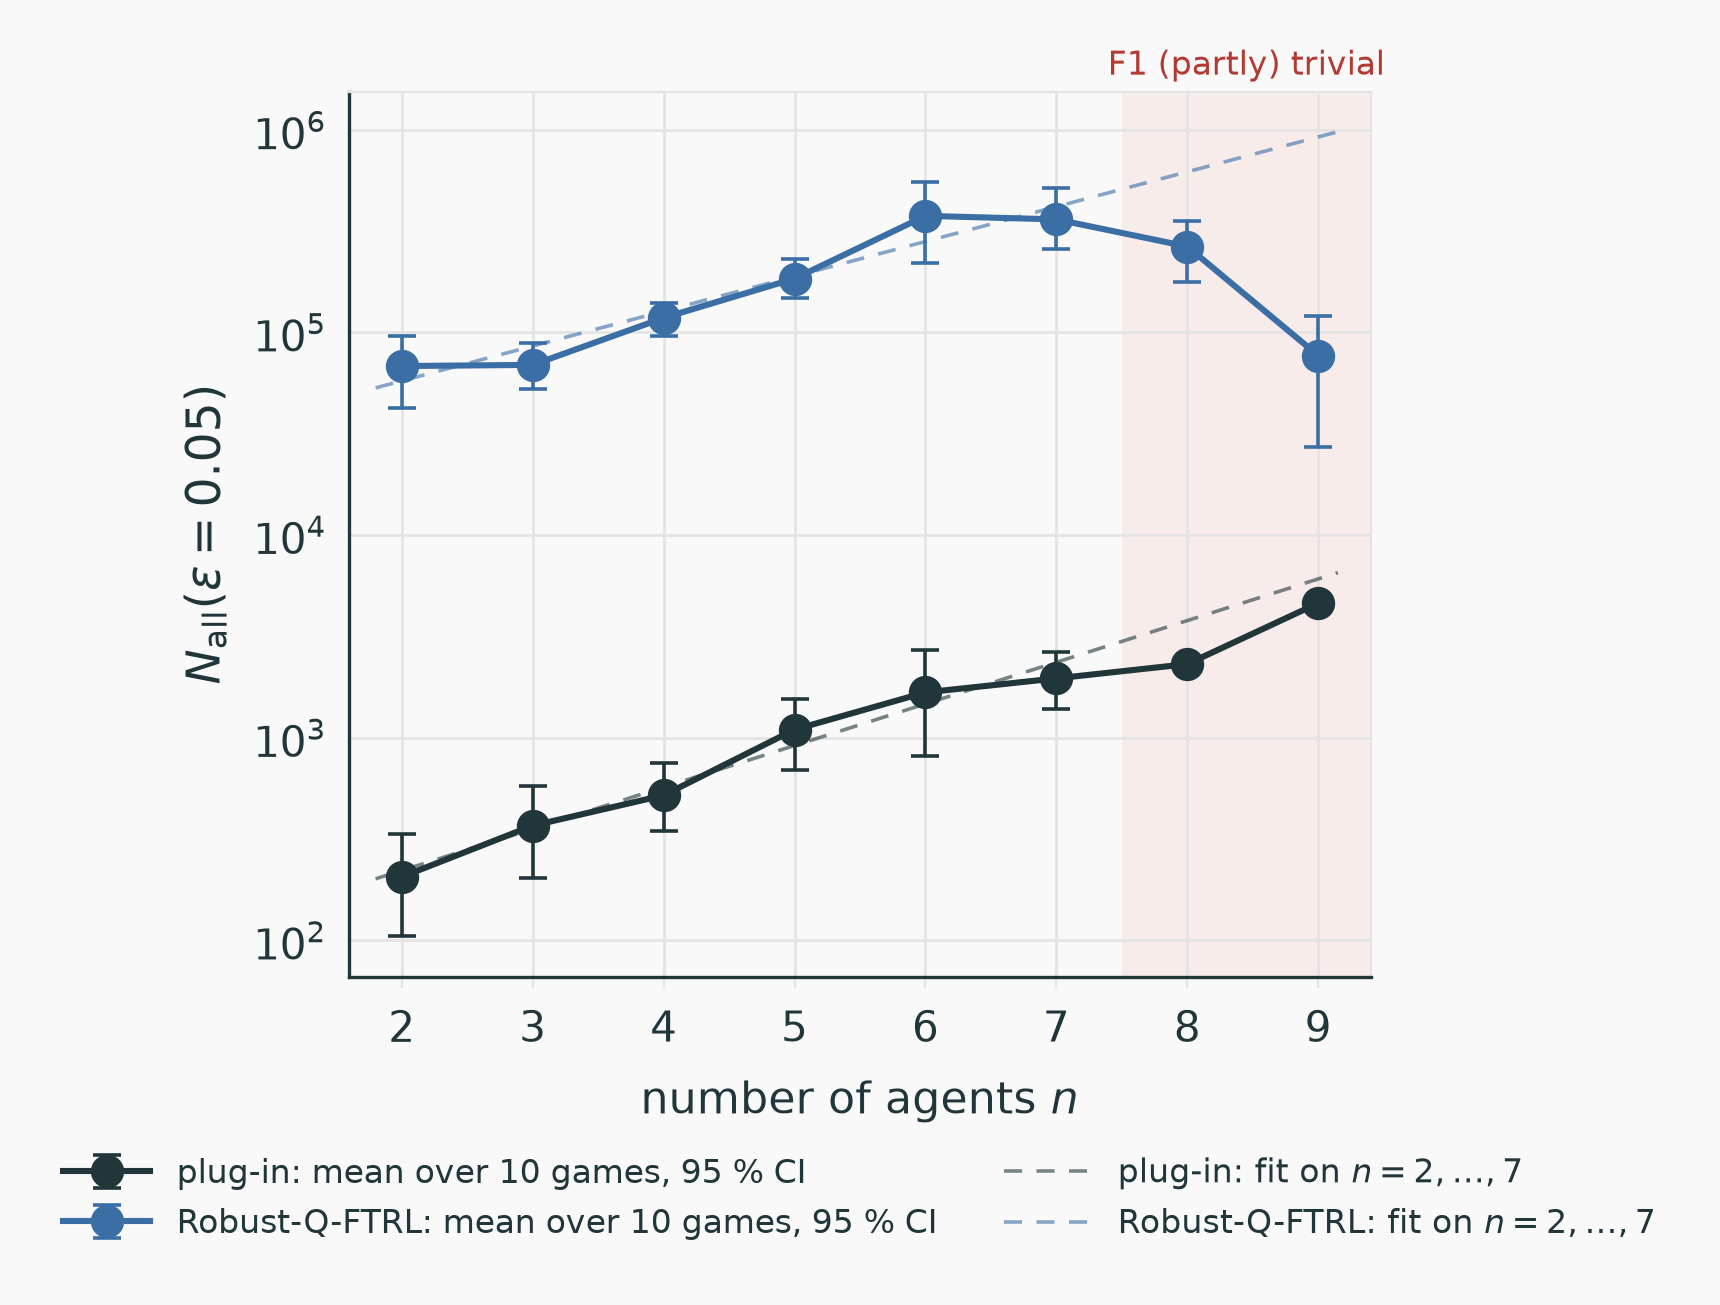
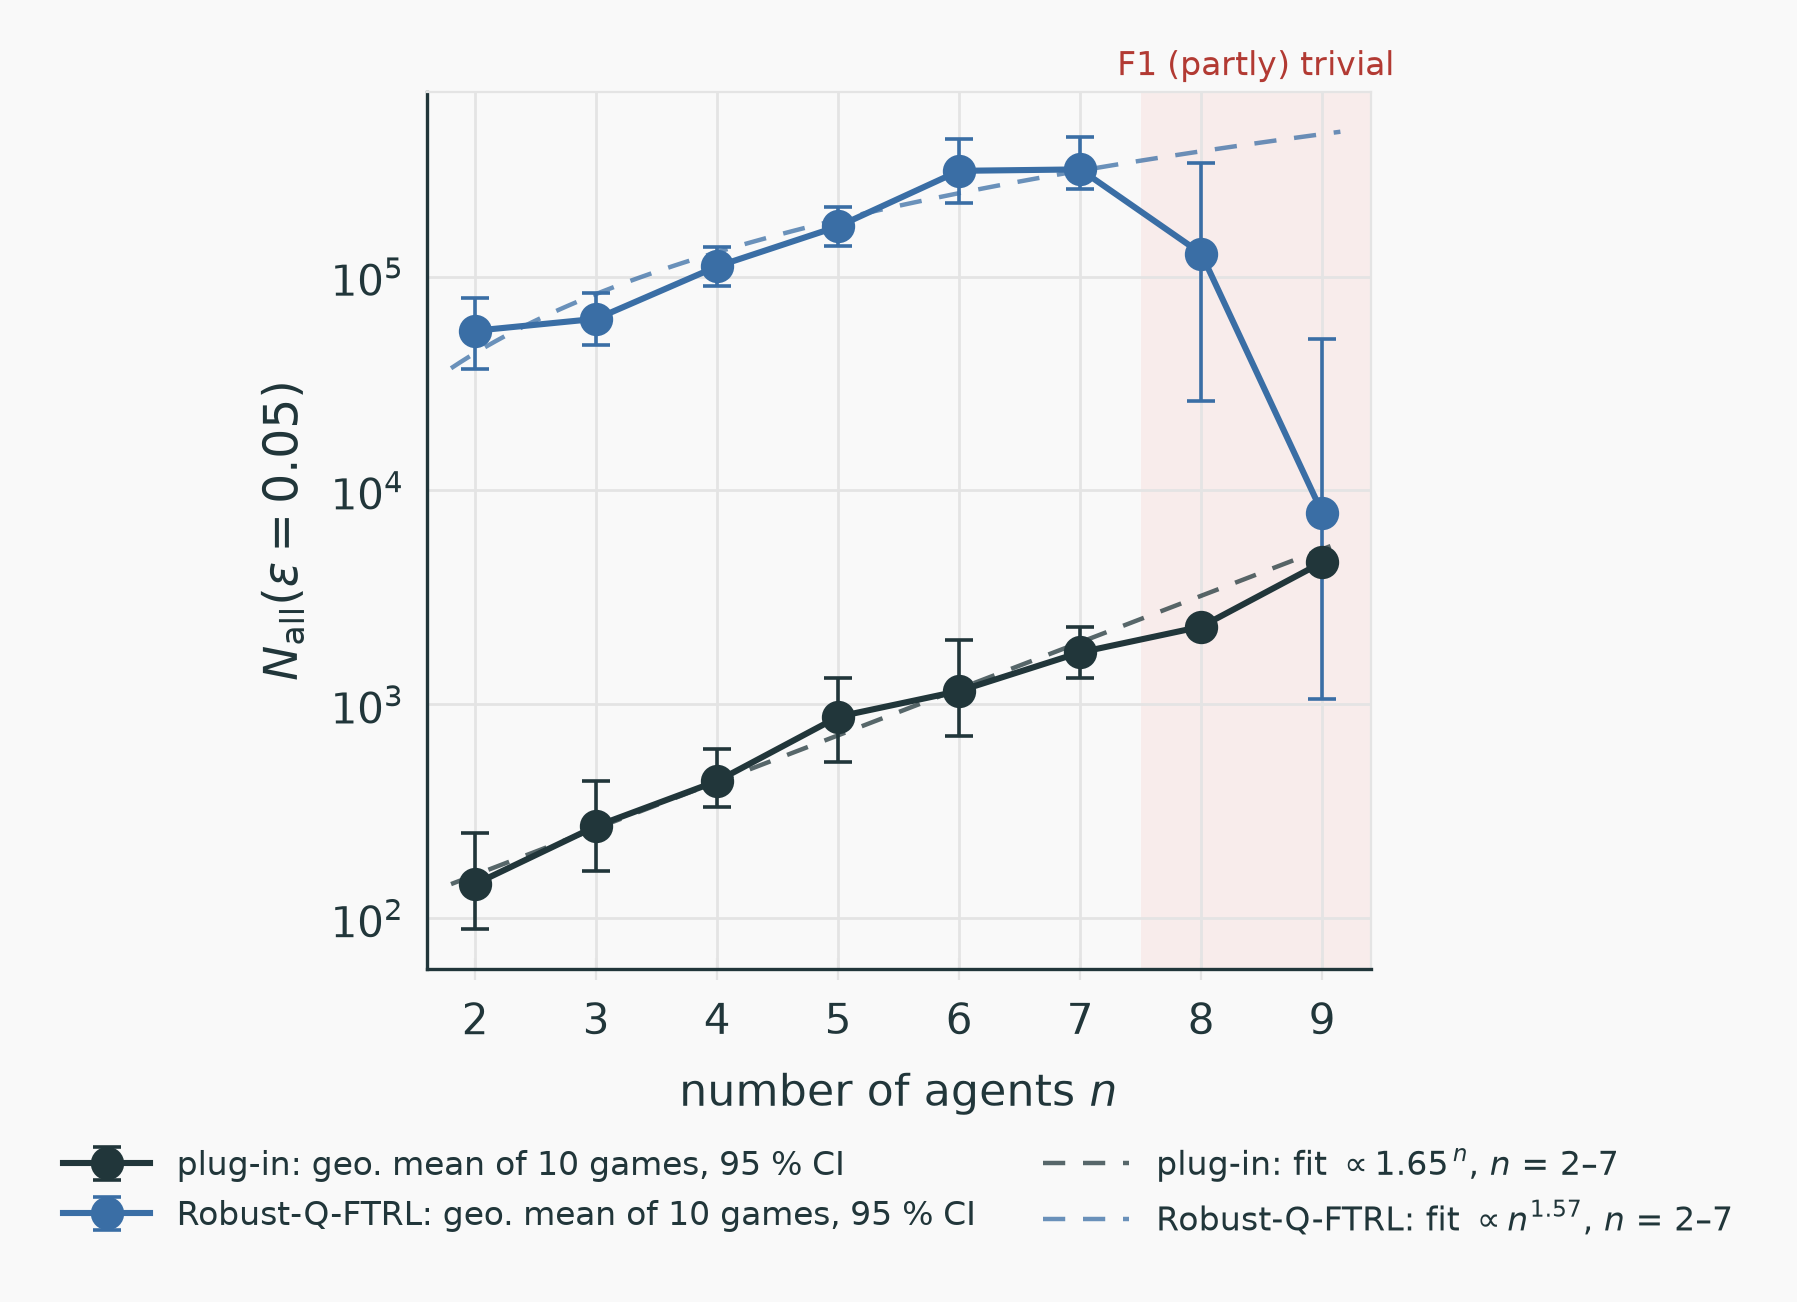
use gemoetric mean everywhere

diff --git a/experiments/analyze_scaling.py b/experiments/analyze_scaling.py
@@ -14,14 +14,23 @@ the instances (each with all its seeds) are resampled with replacement and the l
 recomputed (``--boot`` resamples, fixed seed). An upper end of ``inf`` means that in more than
 2.5 % of the resamples no budget of the grid succeeds.
 
-The plot (``--plot``) shows the mean of N_all over the games per n with a 95 % bootstrap
-interval (games resampled), a semi-log fit on the informative n (dashed) and the region where
-F1 is (partly) trivial (shaded; see ``plot``). Log scale on the y axis only.
+Every statistic over the games is the **geometric mean** (tables, fits and plot points), because
+N_all spans orders of magnitude and the fits are done on log N_all.
 
-Fits, on the geometric mean over instances:
+The plot (``--plot``) shows the geometric mean of N_all over the games per n with a 95 %
+bootstrap interval (games resampled), each method's growth model fitted on the informative n
+(dashed) and the region where F1 is (partly) trivial (shaded; see ``plot``). Log scale on the y
+axis only, so an exponential is a straight line and a power law n^c bends over.
 
-- semi-log: ``log2 N_all = a + b n``; b = 1 means a factor 2 = A per extra agent (exponential).
-- log-log:  ``log N_all = a + b log n``; b = 1 means linear growth in n (polynomial).
+Fits, on the geometric mean over instances, by default only on the informative n (below the
+first n where any instance is solved with K = 1; ``--fit-n`` overrides):
+
+- semi-log (exponential): ``log2 N_all = a + b n``; 2^b is the factor per extra agent
+  (2 = A: the 2^n of a joint-action method). Drawn for plug-in.
+- log-log (power law):  ``log N_all = a + c log n``; c = 1 means linear growth in n. Drawn for
+  Robust-Q-FTRL.
+
+Both are printed for both methods.
 
 The real statistics (confidence intervals, report plots) are Tiago's part; this is a check.
 
@@ -135,14 +144,41 @@ def summarize(table: pd.DataFrame, lowest: pd.DataFrame) -> pd.DataFrame:
     return pd.DataFrame(out).merge(lowest, on=["method", "n"], how="left")
 
 
-def fit(summary: pd.DataFrame, method: str) -> dict:
+# Growth model each method is expected to follow, and the one drawn in the plot.
+MODEL = {"plugin": "exp", "robust_q_ftrl": "power"}
+
+
+def fit(summary: pd.DataFrame, method: str, fit_n: list[int] | None = None) -> dict:
+    """Semi-log and log-log fits of the geometric mean of N_all over n.
+
+    ``fit_n``: the n to fit on (default: every n with a geometric mean).
+    """
     s = summary[(summary["method"] == method)].dropna(subset=["geo_mean"])
+    if fit_n is not None:
+        s = s[s["n"].isin(fit_n)]
     n, y = s["n"].to_numpy(float), s["geo_mean"].to_numpy()
     if len(n) < 2:
         return {}
-    semi = np.polyfit(n, np.log2(y), 1)[0]
-    loglog = np.polyfit(np.log(n), np.log(y), 1)[0]
-    return {"semilog_slope_log2_per_agent": semi, "factor_per_agent": 2**semi, "loglog_slope": loglog}
+    semi, semi_icpt = np.polyfit(n, np.log2(y), 1)
+    loglog, loglog_icpt = np.polyfit(np.log(n), np.log(y), 1)
+    return {
+        "n": [int(v) for v in n],
+        "semilog_slope_log2_per_agent": semi, "factor_per_agent": 2**semi, "semilog_intercept_log2": semi_icpt,
+        "loglog_slope": loglog, "loglog_intercept": loglog_icpt,
+    }
+
+
+def fit_curve(f: dict, model: str, x: np.ndarray) -> np.ndarray:
+    """Evaluate a fit from ``fit`` at ``x`` under ``model`` ("exp" or "power")."""
+    if model == "exp":
+        return 2.0 ** (f["semilog_intercept_log2"] + f["semilog_slope_log2_per_agent"] * x)
+    return np.exp(f["loglog_intercept"] + f["loglog_slope"] * np.log(x))
+
+
+def informative_n(summary: pd.DataFrame, start: float | None) -> list[int]:
+    """The n below the trivial region (all n if there is none)."""
+    ns = sorted(int(v) for v in summary["n"].unique())
+    return [n for n in ns if start is None or n < start]
 
 
 # ---------------------------------------------------------------------------
@@ -166,6 +202,14 @@ def mean_ci(values: np.ndarray, n_boot: int, rng: np.random.Generator) -> tuple[
     return float(values.mean()), float(lo), float(hi)
 
 
+def geo_mean_ci(values: np.ndarray, n_boot: int, rng: np.random.Generator) -> tuple[float, float, float]:
+    """Geometric mean over instances and its 95 % bootstrap interval (instances resampled)."""
+    logs = np.log(values)
+    boot = rng.choice(logs, size=(n_boot, len(logs)), replace=True).mean(axis=1)
+    lo, hi = np.percentile(boot, [2.5, 97.5])
+    return float(np.exp(logs.mean())), float(np.exp(lo)), float(np.exp(hi))
+
+
 def trivial_start(summary: pd.DataFrame) -> float | None:
     """First n at which any instance is solved by Robust-Q-FTRL with K = 1 (uniform policy).
 
@@ -184,10 +228,13 @@ def plot(
     table: pd.DataFrame, summary: pd.DataFrame, eps: float, path: Path, methods: list[str] | None = None,
     fit_n: list[int] | None = None, trivial_from: float | None = None, n_boot: int = 2000, seed: int = 0,
 ) -> None:
-    """Mean N_all over the games with a 95 % bootstrap CI, a semi-log fit and the trivial region.
+    """Geometric mean N_all over the games with a 95 % bootstrap CI, model fits and the trivial region.
 
-    - The fit (dashed) is ``log N_all = a + b n`` on the n in ``fit_n``; by default all n below
-      the trivial region. It is drawn over the whole range of n.
+    - The fit (dashed) is each method's growth model from ``MODEL`` (plug-in: exponential
+      ``∝ bⁿ``, a straight line on the log axis; Robust-Q-FTRL: power law ``∝ n^c``, which bends
+      over), fitted on the geometric means at the n in ``fit_n``; by default all n below the
+      trivial region. The same fits are printed by ``main``. Drawn over the whole range of n;
+      inside the trivial region it is an extrapolation.
     - The trivial region (shaded) starts at ``trivial_from``; by default at the first n where
       any instance is solved with K = 1 (see ``trivial_start``), none if that is unknown.
     """
@@ -209,11 +256,10 @@ def plot(
 
     if start is not None:
         ax.axvspan(start - 0.5, ns[-1] + 0.4, color=SHADE, zorder=0, lw=0)
-        narrow = ns[-1] + 0.4 - (start - 0.5) < 2.5         # too narrow for the label: put it above the axes
-        ax.text((start - 0.5 + ns[-1] + 0.4) / 2, 1.01 if narrow else 0.06 if single else 0.94,
-                "F1 (partly) trivial" if narrow else "F1 (partly) trivial here", transform=ax.get_xaxis_transform(),
-                ha="center", va="bottom" if narrow or single else "top", color=SHADE_TEXT,
-                fontsize=12 if narrow else 15, zorder=1)
+        # Above the axes, so it never collides with the curves or fits inside the region.
+        narrow = ns[-1] + 0.4 - (start - 0.5) < 2.5
+        ax.text((start - 0.5 + ns[-1] + 0.4) / 2, 1.01, "F1 (partly) trivial", transform=ax.get_xaxis_transform(),
+                ha="center", va="bottom", color=SHADE_TEXT, fontsize=12 if narrow else 14, zorder=1)
 
     for method in methods:
         color = COLORS.get(method, INK)
@@ -222,25 +268,27 @@ def plot(
         for n, g in table[table["method"] == method].groupby("n"):
             vals = g["N_all"].dropna().to_numpy()
             if len(vals):
-                rows.append((n, len(vals), *mean_ci(vals, n_boot, rng)))
+                rows.append((n, len(vals), *geo_mean_ci(vals, n_boot, rng)))
         if not rows:
             continue
-        n_arr, counts, mean, lo, hi = map(np.array, zip(*rows))
+        n_arr, counts, gmean, lo, hi = map(np.array, zip(*rows))
         n_games = int(counts.max())
-        ax.errorbar(n_arr, mean, yerr=[mean - lo, hi - mean], color=color, lw=2.2, marker="o", ms=11,
+        ax.errorbar(n_arr, gmean, yerr=[gmean - lo, hi - gmean], color=color, lw=2.2, marker="o", ms=11,
                     capsize=5, elinewidth=1.3, capthick=1.3, zorder=3,
-                    label=f"{prefix}mean over {n_games} games, 95 % CI")
+                    label=f"{prefix}geo. mean of {n_games} games, 95 % CI")
 
-        fit_ns = fit_n if fit_n else [n for n in n_arr if start is None or n < start]
-        mask = np.isin(n_arr, fit_ns)
-        if mask.sum() >= 2:
-            b, a = np.polyfit(n_arr[mask], np.log(mean[mask]), 1)
-            x = np.linspace(ns[0] - 0.2, ns[-1] + 0.15, 50)
-            used = n_arr[mask].astype(int)
-            fit_label = (rf"$n = {used[0]}, \ldots, {used[-1]}$" if np.all(np.diff(used) == 1)
-                         else r"$n \in \{" + ", ".join(map(str, used)) + r"\}$")
-            ax.plot(x, np.exp(a + b * x), ls=(0, (5, 4)), color=FIT if len(methods) == 1 else color,
-                    lw=1.3, alpha=0.9 if len(methods) == 1 else 0.6, zorder=2, label=f"{prefix}fit on {fit_label}")
+        f = fit(summary, method, fit_n if fit_n else informative_n(summary, start))
+        if f:
+            model = MODEL.get(method, "exp")
+            x = np.linspace(ns[0] - 0.2, ns[-1] + 0.15, 100)
+            used = f["n"]
+            fit_range = (f"{used[0]}–{used[-1]}" if np.all(np.diff(used) == 1)
+                         else ", ".join(map(str, used)))
+            law = (rf"$\propto {f['factor_per_agent']:.2f}^{{\,n}}$" if model == "exp"
+                   else rf"$\propto n^{{{f['loglog_slope']:.2f}}}$")
+            ax.plot(x, fit_curve(f, model, x), ls=(0, (5, 4)), color=FIT if len(methods) == 1 else color,
+                    lw=1.6, alpha=0.9 if len(methods) == 1 else 0.75, zorder=2,
+                    label=f"{prefix}fit {law}, $n$ = {fit_range}")
 
     ax.set_yscale("log")
     ax.yaxis.set_major_locator(LogLocator(base=10))
@@ -259,7 +307,7 @@ def plot(
     for label in (ax.xaxis.label, ax.yaxis.label):
         label.set_color(INK)
     handles, labels = ax.get_legend_handles_labels()
-    order = sorted(range(len(labels)), key=lambda i: ("fit on" in labels[i], i))   # means first, then fits
+    order = sorted(range(len(labels)), key=lambda i: ("fit " in labels[i], i))   # means first, then fits
     handles, labels = [handles[i] for i in order], [labels[i] for i in order]
     if single:
         ax.legend(handles, labels, loc="upper left", frameon=False, labelcolor=INK, handlelength=3.2,
@@ -291,11 +339,16 @@ def main(argv: list[str] | None = None) -> None:
     pd.set_option("display.width", 160)
     print(f"N_all(eps = {args.eps}), success rate {args.success_rate}:")
     print(summary.to_string(index=False, float_format=lambda x: f"{x:,.0f}"))
+    start = args.trivial_from if args.trivial_from is not None else trivial_start(summary)
+    fit_ns = args.fit_n if args.fit_n else informative_n(summary, start)
+    print(f"\nFits on the geometric means, n = {fit_ns} "
+          f"({'--fit-n' if args.fit_n else 'informative range'}):")
     for method in BUDGET:
-        f = fit(summary, method)
+        f = fit(summary, method, fit_ns)
         if f:
             print(f"{method:<14} semi-log slope {f['semilog_slope_log2_per_agent']:.2f} "
-                  f"(x{f['factor_per_agent']:.2f} per agent), log-log slope {f['loglog_slope']:.2f}")
+                  f"(x{f['factor_per_agent']:.2f} per agent), log-log slope {f['loglog_slope']:.2f}"
+                  f"   [plotted: {'exponential' if MODEL[method] == 'exp' else 'power law'}]")
 
     if "exact" in set(df["method"]):
         floor = df[df["method"] == "exact"].groupby("n")["gap_out"].agg(["mean", "max"])

diff --git a/docs/4_experiments/scaling_in_n.md b/docs/4_experiments/scaling_in_n.md
@@ -118,28 +118,20 @@ solved by both methods at both ε. Rows in *italics* are in the trivial range.
 
 All Robust-Q-FTRL budgets at the median have N = 1 except n = 2, ε = 0.05.
 
-### N_all(ε), setting A
-
-| n | plug-in, ε = 0.1 | Robust-Q-FTRL, ε = 0.1 | plug-in, ε = 0.05 | Robust-Q-FTRL, ε = 0.05 |
-|---|---|---|---|---|
-| 2 | 177 (m = 8) | 12,161 (K = 256) | 709 (m = 32) | 59,886 (K = 1024) |
-| 3 | 501 (m = 8) | 18,241 (K = 256) | 1,871 (m = 32) | 63,518 (K = 1024) |
-| 4 | 1,003 (m = 8) | 26,067 (K = 256) | 2,469 (m = 16) | 104,267 (K = 1024) |
-| 5 | *1,746 (m = 8)* | *2,036 (3 of 10 at K = 1)* | 6,984 (m = 32) | 211,728 (K = 2048) |
-| 6 | *3,743 (m = 8)* | *153 (9 of 10 at K = 1)* | 10,586 (m = 16) | 179,657 (K = 2048) |
-| 7 | *7,486 (m = 8)* | *126 (all at K = 1)* | *22,692 (m = 16)* | *74,105 (1 of 10 at K = 1)* |
-| 8 | *9,216 (m = 4)* | *144 (all at K = 1)* | *17,198 (m = 8)* | *269 (9 of 10 at K = 1)* |
-| 9 | *7,486 (m = 2)* | *162 (all at K = 1)* | *14,971 (m = 4)* | *162 (all at K = 1)* |
-
-For n = 2–8 these are identical to the earlier sweeps of 8, 14 and 19 Nov.
-
 ### Plots
 
-N_all(ε) against n on a log scale. Points are the arithmetic mean over the 10 instances, with
-a 95 % bootstrap interval (instances resampled). They are somewhat higher than the geometric
-means in the tables, most visibly where a few instances need a much larger budget. The dashed
-lines are semi-log fits on the informative range. The shaded region starts at the first n where
-any instance is already solved at K = 1, the rows in *italics* in the tables.
+N_all(ε) against n on a log scale. Points are the geometric mean over the 10 instances (the
+same numbers as in the tables), with a 95 % bootstrap interval (instances resampled). The dashed
+lines are each method's expected growth model, fitted on the geometric means of the informative
+range (the same fits as in the growth-rate table below):
+
+- **plug-in:** exponential, N_all ∝ bⁿ. On the log axis this is a straight line.
+- **Robust-Q-FTRL:** power law, N_all ∝ n^c. On the log axis this bends over and flattens,
+  which is what linear growth looks like there; an exponential would be a straight line.
+
+The legend gives the fitted b and c. The shaded region starts at the first n where any instance
+is already solved at K = 1, the rows in *italics* in the tables; dashed lines inside it are
+extrapolations.
 
 | | ε = 0.1 | ε = 0.05 |
 |---|---|---|
